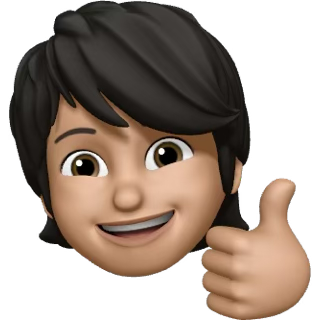
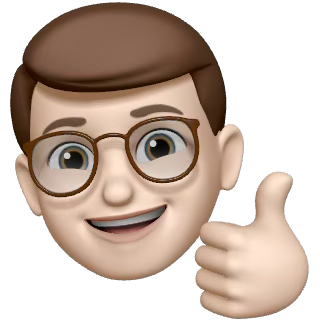
34

diff --git a/index.html b/index.html
@@ -370,7 +370,7 @@
               <div class="content-card" data-testimonials-item>
                  
                   <figure class="testimonials-avatar-box">
-                    <!--<img src="./assets/images/avatar_P.png" alt="Henry william" width="60" data-testimonials-avatar>-->
+                    <img src="./assets/images/avatar_P.png" alt="Henry william" width="60" data-testimonials-avatar>
                  
                 </figure> 
                     
@@ -389,7 +389,7 @@
               <div class="content-card" data-testimonials-item>
                 
                 <figure class="testimonials-avatar-box">
-                  <!--<img src="./assets/images/avatar_L.png" alt="Henry william" width="60" data-testimonials-avatar>-->
+                   <img src="./assets/images/avatar_P.png" alt="Henry william" width="60" data-testimonials-avatar> 
                 </figure>
                 
                 <h4 class="h4 testimonials-item-title" data-testimonials-title>Student 2 <p> (Physics / PE Teaching)</h4>
